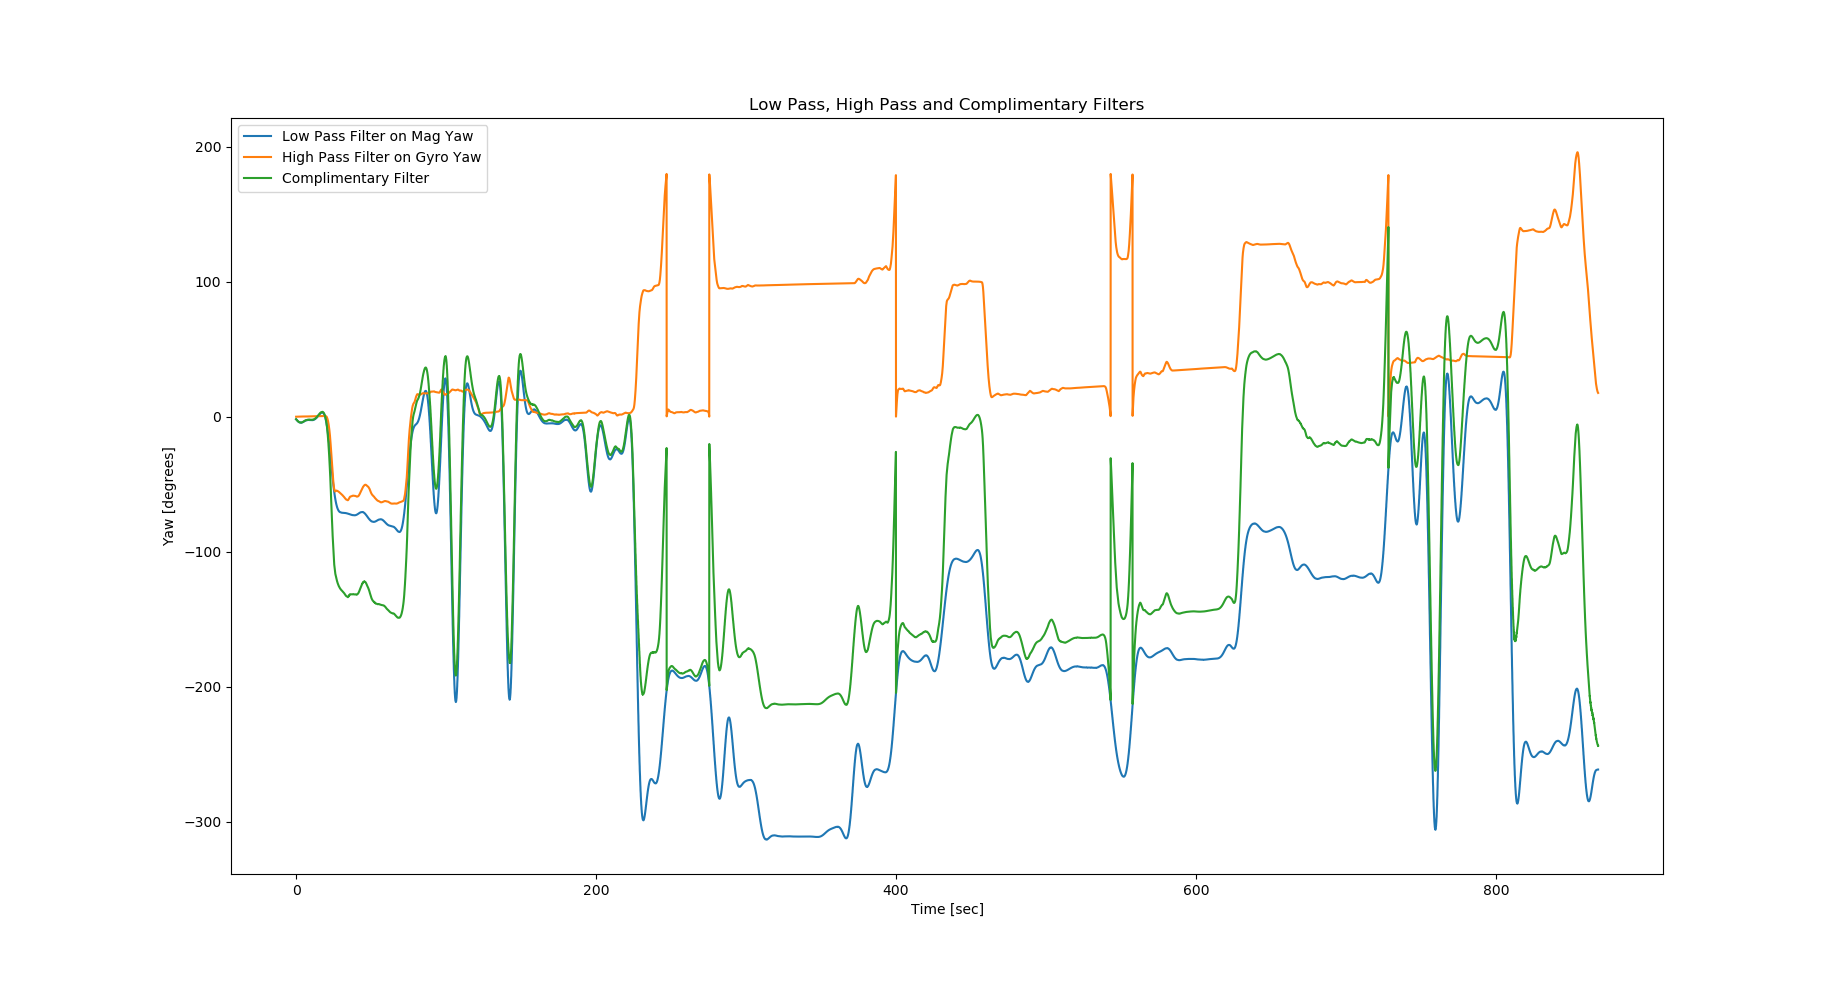
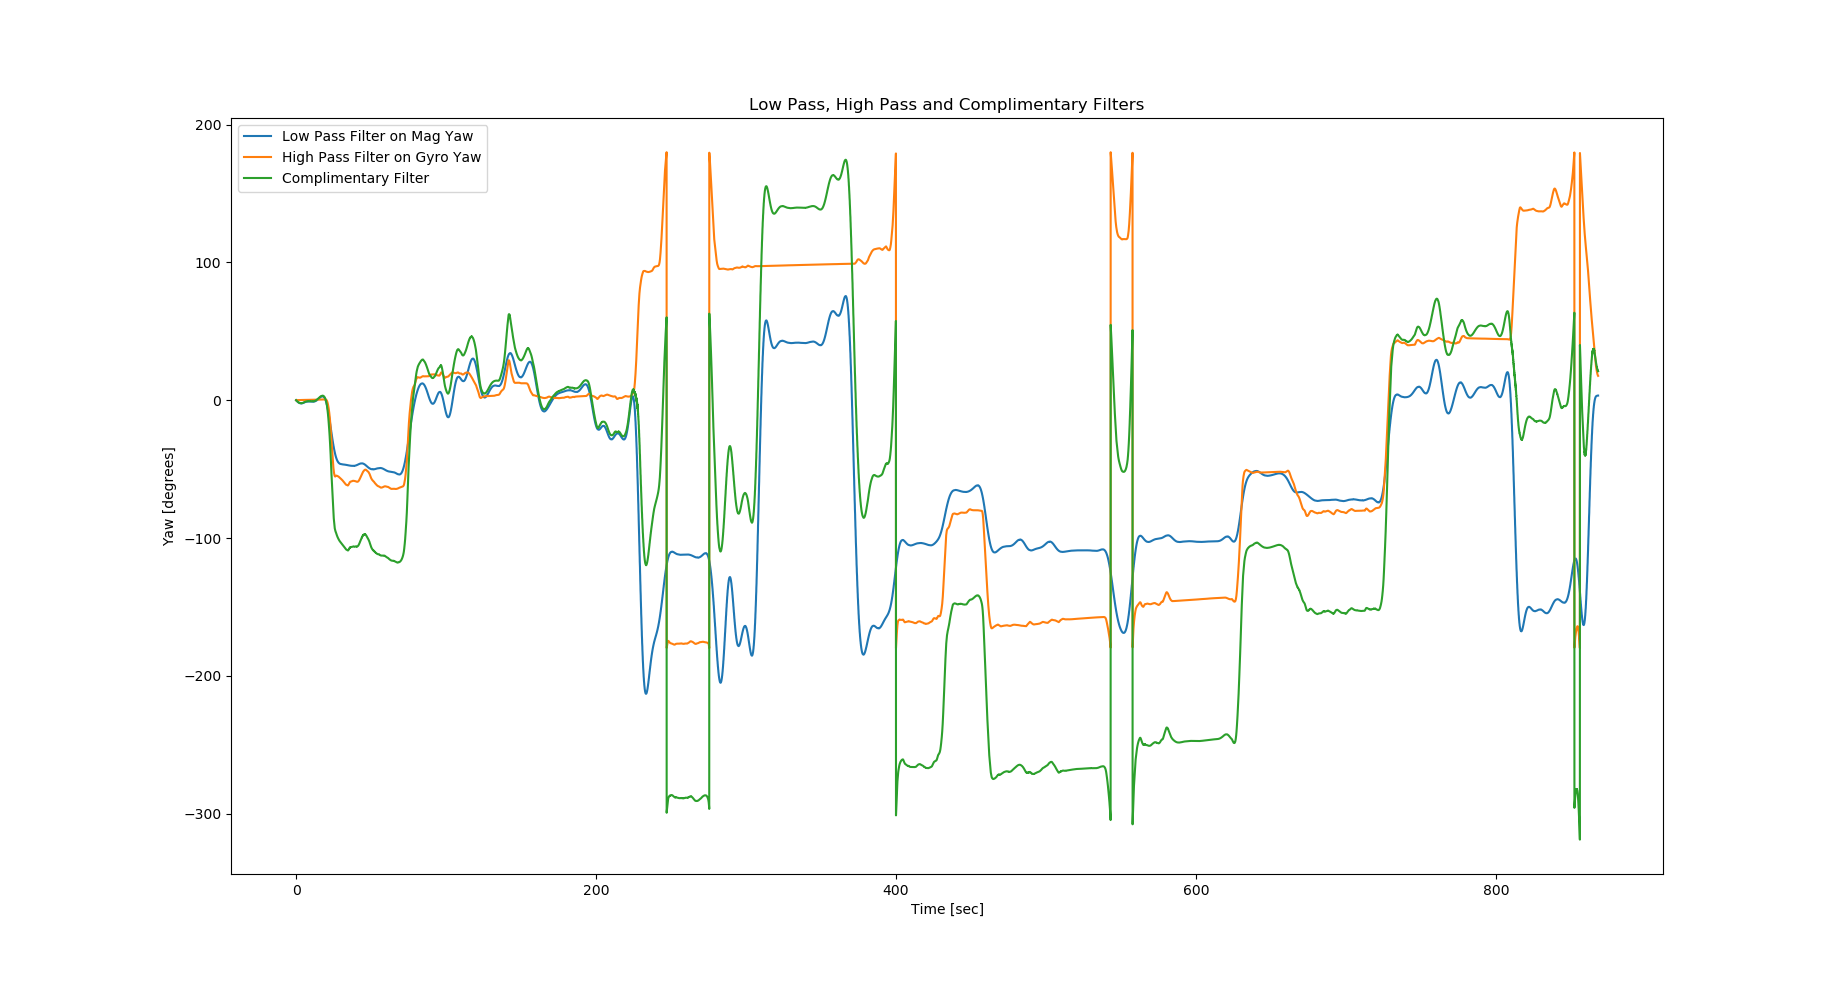
first submission

diff --git a/LAB4/Analysis/driving circle analysis.py b/LAB4/Analysis/driving circle analysis.py
@@ -6,6 +6,9 @@ import numpy as np
 from scipy.optimize import least_squares
 import scipy.integrate as integrate
 from scipy.signal import butter, filtfilt
+from scipy.spatial.transform import Rotation as R
+from scipy.ndimage import rotate
+
 import math
 
 # data_drivingB = bagreader('data_driving.bag')
@@ -77,24 +80,27 @@ x = circles_calibrated_hard['mag_field.magnetic_field.x'].values
 y = circles_calibrated_hard['mag_field.magnetic_field.y'].values
 circles_calibrated_hard['r'] = np.sqrt(circles_calibrated_hard['mag_field.magnetic_field.x']**2
                                 +circles_calibrated_hard['mag_field.magnetic_field.y']**2)
+
+radii = circles_calibrated_hard['r'].values
+
+theTaa = np.arcsin(max(y)/max(radii))
+Rotation = np.array([[np.cos(theTaa), np.sin(theTaa)], 
+              [-np.sin(theTaa), np.cos(theTaa)]])
+xymatrix = np.column_stack((x,y))
+
+v1 = np.dot(Rotation, xymatrix.T)
+
 avg_delta_x = (max(x) - min(x)) / 2
 avg_delta_y = (max(y) - min(y)) / 2
 avg_delta = (avg_delta_x + avg_delta_y) / 2
 scale_x = avg_delta / avg_delta_x
 scale_y = avg_delta / avg_delta_y
 
-corrected_x = x * scale_x
-corrected_y = y * scale_y
+corrected_x = v1[0] * scale_x
+corrected_y = v1[1] * scale_y
 
 print(avg_delta_x)
 print(avg_delta_y)
-
-#This function describes my mapping from measured data back to a circle
-def distortion_model(X_meas, dist_params):
-    x = dist_params[0] * (X_meas[0] - dist_params[4]) + dist_params[1]*(X_meas[1] - dist_params[5])
-    y = dist_params[2] * (X_meas[0] - dist_params[4]) + dist_params[3]*(X_meas[1] - dist_params[5])
-    X = np.array([x,y])
-    return X
 
 #Completely made up data set for magnetometer readings
 field_strength = .206
@@ -160,31 +166,29 @@ driving_mag_x_uncalibrated = drivingDF['mag_field.magnetic_field.x'].values
 driving_mag_y_uncalibrated = drivingDF['mag_field.magnetic_field.y'].values
 gyro_z = drivingDF['imu.angular_velocity.z'].values
 
+uncalibrated_magnetometer_yaw = np.degrees(np.arctan2(-driving_mag_y_uncalibrated,driving_mag_x_uncalibrated))
+
 driving_yaw = []
-uncalibrated_magnetometer_yaw = np.degrees(np.arctan2(driving_mag_x_uncalibrated,driving_mag_y_uncalibrated))
 
 for data in driving_raw_data:
     split = data.split(",")
     driving_yaw.append(float(split[1]))
 
-driving_x_calibrated = (driving_mag_x_uncalibrated - x_offset) * scale_x
-driving_y_calibrated = (driving_mag_y_uncalibrated - y_offset) * scale_y
+driving_matrix = np.column_stack(((driving_mag_x_uncalibrated - x_offset/2), (driving_mag_y_uncalibrated - y_offset/2)))
+driving_rotated = np.dot(Rotation, driving_matrix.T)
+
+driving_x_calibrated = driving_rotated[0] * scale_x
+driving_y_calibrated = driving_rotated[1] * scale_y
+
 
 integrated_yaw = np.degrees(integrate.cumulative_trapezoid(gyro_z, time, initial = 0))
 corrected_yaw = np.mod(integrated_yaw + 180, 360) - 180
-
-calibrated_magnetometer_yaw = np.degrees(np.arctan2(driving_x_calibrated,driving_y_calibrated))
-cal_magnetometer_yaw = calibrated_magnetometer_yaw - calibrated_magnetometer_yaw[0]
-cal_magnetometer_yaw = np.mod(calibrated_magnetometer_yaw + 180, 360) - 180
-
+calibrated_magnetometer_yaw = np.degrees(np.arctan2(-driving_y_calibrated,driving_x_calibrated))
 calibrated_magnetometer_yaw = calibrated_magnetometer_yaw - calibrated_magnetometer_yaw[0]
-uncal_magnetometer_yaw = uncalibrated_magnetometer_yaw - uncalibrated_magnetometer_yaw[0]
-uncal_magnetometer_yaw = np.mod(uncalibrated_magnetometer_yaw + 180, 360) - 180
-
 
 # fid, ax3 = plt.subplots()
-# ax3.plot(time, cal_magnetometer_yaw)
-# ax3.plot(time, uncal_magnetometer_yaw)
+# ax3.plot(time, calibrated_magnetometer_yaw)
+# ax3.plot(time, uncalibrated_magnetometer_yaw)
 # ax3.plot(time, corrected_yaw)
 # ax3.legend(['Calibrated Mag Yaw Estimate','Uncalibrated Mag Yaw Estimate', 'Gyro Integrated Yaw Estimate'])
 # ax3.set_xlabel('Time [sec]')
@@ -211,27 +215,29 @@ hpf = filtfilt(c, k, corrected_yaw)
 hpf = hpf - hpf[0]
 
 # Apply the filter to the noisy signal
-lpf_mag = filtfilt(b, a, cal_magnetometer_yaw)
+lpf_mag = filtfilt(b, a, calibrated_magnetometer_yaw)
+lpf_mag = lpf_mag - lpf_mag[0]
 comp_filter = hpf + lpf_mag
 
-ax9 = plt.subplot()
-ax9.plot(time, lpf_mag)
-ax9.plot(time, hpf)
-ax9.plot(time, comp_filter)
-ax9.legend(['Low Pass Filter on Mag Yaw', 'High Pass Filter on Gyro Yaw', 'Complimentary Filter'])
-ax9.set_title('Low Pass, High Pass and Complimentary Filters')
-ax9.set_xlabel('Time [sec]')
-ax9.set_ylabel('Yaw [degrees]')
+# ax9 = plt.subplot()
+# ax9.plot(time, lpf_mag)
+# ax9.plot(time, hpf)
+# ax9.plot(time, comp_filter)
+# ax9.legend(['Low Pass Filter on Mag Yaw', 'High Pass Filter on Gyro Yaw', 'Complimentary Filter'])
+# ax9.set_title('Low Pass, High Pass and Complimentary Filters')
+# ax9.set_xlabel('Time [sec]')
+# ax9.set_ylabel('Yaw [degrees]')
+driving_yaw = np.array(driving_yaw) + 32
 
-# ax10 = plt.subplot()
-# ax10.plot(time, comp_filter)
-# ax10.plot(time, uncalibrated_magnetometer_yaw)
-# ax10.plot(time, corrected_yaw)
-# ax10.plot(time, driving_yaw)
-# ax10.legend(['Complimentary Filter', 'Magnetometer Yaw', 'Integrated Gyro Yaw', 'IMU Yaw'])
-# ax10.set_title('Magnetometer, Integrated Gyro, Complementary filter and IMU Yaw Angles')
-# ax10.set_xlabel('Time [sec]')
-# ax10.set_ylabel('Yaw [degrees]')
+ax10 = plt.subplot()
+ax10.plot(time, comp_filter)
+ax10.plot(time, calibrated_magnetometer_yaw)
+ax10.plot(time, corrected_yaw)
+ax10.plot(time, driving_yaw)
+ax10.legend(['Complimentary Filter', 'Magnetometer Yaw', 'Integrated Gyro Yaw', 'IMU Yaw'])
+ax10.set_title('Magnetometer, Integrated Gyro, Complementary filter and IMU Yaw Angles')
+ax10.set_xlabel('Time [sec]')
+ax10.set_ylabel('Yaw [degrees]')
 
 #------------------------------------------------------------------------------------------------------
 #------------------------------------------------------------------------------------------------------
@@ -244,13 +250,32 @@ scale(gpsDF)
 
 forward_acc = drivingDF['imu.linear_acceleration.x'].values
 acc_correction = np.median(forward_acc)
-print(acc_correction)
 corrected_acc = forward_acc - acc_correction
+
+# Define the filter parameters
+order = 2
+cutoff = .1  # Hz
+fs = 1 / np.mean(np.diff(time))
+
+# Create the filter coefficients
+nyquist = 0.5 * fs
+normal_cutoff = cutoff / nyquist
+b, a = butter(order, normal_cutoff, btype='low', analog=False)
+
+# Apply the filter to the data
+filtered_data = filtfilt(b, a, forward_acc)
+filtered_data = filtered_data - np.mean(filtered_data)
+# Apply the moving average filter
+
+filtered_vel = integrate.cumulative_trapezoid(filtered_data, time, initial = 0)
 
 forward_vel = integrate.cumulative_trapezoid(forward_acc, time, initial = 0)
 corrected_forward_vel = integrate.cumulative_trapezoid(corrected_acc, time, initial = 0)
 gps_easting = gpsDF['UTM_easting'].values
+gps_easting = gps_easting - gps_easting[0]
 gps_northing = gpsDF['UTM_northing'].values
+gps_northing = gps_northing - gps_northing[0]
+
 gps_time = gpsDF['Time'].values
 distance = np.sqrt(gps_easting**2 + gps_northing**2)
 
@@ -271,16 +296,72 @@ trend_data = trend_line(time)
 # Detrend the data by subtracting the trend from the original data
 detrended_data = forward_vel - trend_data
 
+# Apply a moving average filter
+window_size = 100
+window = np.ones(window_size) / window_size
+filtered_acceleration = np.convolve(corrected_acc, window, mode='same')
+filtered_forward_vel = integrate.cumulative_trapezoid(filtered_acceleration, time, initial = 0)
+
+# fig, ax = plt.subplots()
+# ax.plot(time, filtered_data)
+# ax.plot(time, filtered_vel)
+
 # fig, ax4 = plt.subplots()
 # fig, ax5 = plt.subplots()
-# ax4.plot(time, forward_vel, c = 'green')
+# ax4.plot(time, filtered_acceleration)
 # ax4.set_title('Unadjusted Accelerometer Velociy Estimate')
-# ax5.plot(time, corrected_forward_vel)
-# ax5.set_title('Adjusted Accelerometer Velociy Estimate')
+# ax4.set_xlabel('Time [sec]')
+# ax4.set_ylabel('Velocity [meters/sec]')
 
+zer_adjusted_forward_vel = np.copy(filtered_forward_vel)
+test_split1 = np.copy(filtered_forward_vel)
+# Find the zero crossings of the velocity data
+zero_crossings = np.where(np.diff(np.sign(zer_adjusted_forward_vel)))[0]
+
+# Split the data in half
+half = len(test_split1) // 2
+data1, data2 = np.split(test_split1, [half])
+print(min(data1))
+print(np.where(data1 == min(data1)))
+
+detrend_start = zero_crossings[6]
+
+start1 = zero_crossings[1]
+end1 = 14779
+test_split1[start1:end1+1] = 0
+test_split1[end1+2:] += 14.2
+
+ZAF = np.copy(test_split1)
+# Correct for negative velocity values
+for i in range(1, len(ZAF)):
+    if ZAF[i] < 0:
+        ZAF[i] = max(ZAF[i], ZAF[i-1])
+
+print(len(ZAF))
+print((len(ZAF)*(3/4)))
+ZAF[26045:] -= 5.5
+
+for i in range(1, len(ZAF)):
+    if ZAF[i] < 0:
+        ZAF[i] = max(ZAF[i], ZAF[i-1])
+
+ZAF = ZAF *.75
+ZAF_ = ZAF[:start1]*.85
+ZAF[:start1] = ZAF_
+ZAF = ZAF*1.2
+
+gps_time = gps_time[1:]
 # fig, ax6 = plt.subplots()
 # ax6.plot(gps_time, gps_velocity)
-# ax6.set_title('GPS Velociy Estimate')
+# ax6.set_xlabel('Time [sec]')
+# ax6.set_ylabel('Velocity [meters/sec]')
+# # ax6.plot(time, filtered_forward_vel)
+# ax6.plot(time, ZAF)
+# ax6.plot(time, corrected_forward_vel)
+# # ax6.plot(time, zer_adjusted_forward_vel)
+# ax6.set_title('Velocity Estimate')
+# ax6.legend(['GPS Velocity Estimate','Adjusted Inertial Velocity Estimate',
+#             'Unadjusted Velocity Estimate'])
 
 #------------------------------------------------------------------------------------------------------
 #------------------------------------------------------------------------------------------------------
@@ -289,11 +370,67 @@ detrended_data = forward_vel - trend_data
 #------------------------------------------------------------------------------------------------------
 #------------------------------------------------------------------------------------------------------
 #------------------------------------------------------------------------------------------------------
-distance_from_integration = integrate.cumulative_trapezoid(detrended_data, time, initial = 0)
+y_acc = drivingDF['imu.linear_acceleration.y'].values
+y_acc_correction = np.median(y_acc)
+corrected_y_acc = forward_acc - acc_correction
+calculated_Ydot = gyro_z*corrected_forward_vel
+
+# Define the filter parameters
+order = 2
+cutoff = 1  # Hz
+fs = 1 / np.mean(np.diff(time))
+
+# Create the filter coefficients
+nyquist = 0.5 * fs
+normal_cutoff = cutoff / nyquist
+b, a = butter(order, normal_cutoff, btype='low', analog=False)
+
+# Apply the filter to the data
+filtered_y = filtfilt(b, a, y_acc)
+filtered_y = filtered_y - np.mean(filtered_y)
+# Apply the moving average filter
+
+filtered_y_vel = integrate.cumulative_trapezoid(filtered_y, time, initial = 0)
+distance_y_from_integration = integrate.cumulative_trapezoid(filtered_y_vel, time, initial = 0)
+distance_x_from_integration = integrate.cumulative_trapezoid(filtered_vel, time, initial = 0)
 distance = distance - distance[0]
-# fig, ax6 = plt.subplots()
-# ax6.plot(gps_time, distance)
-# ax6.plot(time, distance_from_integration)
-# ax6.set_title('Distance Estimate')
+fig, ax6 = plt.subplots()
+ax6.plot(gps_easting, gps_northing)
+ax6.set_title('Dead Reconing')
+ax6.axis('equal')
+
+print(np.where(time > 300))
+calculated_Ydot[12000:] *= -1
+#-----------------------------------------------------------------------------------------------
+#Detrending forward velocity
+#-----------------------------------------------------------------------------------------------
+window_size = 1
+window = np.ones(window_size) / float(window_size)
+smoothed_v = np.convolve(forward_vel, window, 'same')
+
+Ve = smoothed_v*np.cos(np.deg2rad(driving_yaw))
+Vn = smoothed_v*np.sin(np.deg2rad(driving_yaw))
+
+Xe = integrate.cumulative_trapezoid(Ve, time, initial = 0)/42
+Xn = integrate.cumulative_trapezoid(Vn, time, initial = 0)/42
+
+rate = np.mean(np.diff(Xe))
+ratey = np.mean(np.diff(Xn))
+
+Xe += Xe*rate*-1
+Xn += Xn*ratey*-1
+
+yay = np.column_stack((Xe,Xn))
+arr_diag = np.fliplr(np.rot90(yay))
+
+
+# fig, ax7 = plt.subplots()
+# ax6.plot(gps_easting, gps_northing)
+# ax7.plot(time, calculated_Ydot, c = 'blue')
+ax6.plot(arr_diag[0], arr_diag[1], c = 'black')
+ax6.legend(['GPS Track', 'IMU Track'])
+# ax7.set_title('Y Acceleration Calculated and Observed')
+ax6.set_xlabel('Xe [meters]')
+ax6.set_ylabel('Xn [meters]')
 
 plt.show()

diff --git a/LAB4/Analysis/moving average example.py b/LAB4/Analysis/moving average example.py
@@ -1,0 +1,33 @@
+import numpy as np
+import matplotlib.pyplot as plt
+
+# Define the vertices of the trapezoid
+trapezoid = np.array([(1, 1), (3, 3), (5, 3), (7, 1)])
+
+# Compute the width and height of the rectangle
+width = np.max(trapezoid[:, 0]) - np.min(trapezoid[:, 0])
+height = np.max(trapezoid[:, 1]) - np.min(trapezoid[:, 1])
+
+# Compute the rotation angle of the rectangle
+dx = trapezoid[1, 0] - trapezoid[0, 0]
+dy = trapezoid[1, 1] - trapezoid[0, 1]
+angle = np.arctan2(dy, dx)
+
+# Compute the scaling factors for the x-axis and y-axis
+scale_x = width / np.abs(dx)
+scale_y = height / np.abs(dy)
+
+# Define the affine transformation matrix
+M = np.array([[np.cos(angle) * scale_x, -np.sin(angle) * scale_y, -np.min(trapezoid[:, 0]) * np.cos(angle) * scale_x + np.min(trapezoid[:, 1]) * np.sin(angle) * scale_y],
+              [np.sin(angle) * scale_x, np.cos(angle) * scale_y, -np.min(trapezoid[:, 0]) * np.sin(angle) * scale_x - np.min(trapezoid[:, 1]) * np.cos(angle) * scale_y]])
+
+# Apply the affine transformation to the trapezoid
+trapezoid_transformed = np.hstack([trapezoid, np.ones((len(trapezoid), 1))]).dot(M.T)[:, :2]
+
+# Plot the original and transformed trapezoids
+fig, ax = plt.subplots(1, 2, figsize=(10, 5))
+ax[0].plot(trapezoid[:, 0], trapezoid[:, 1], 'r--')
+ax[0].set_title('Original Trapezoid')
+ax[1].plot(trapezoid_transformed[:, 0], trapezoid_transformed[:, 1], 'b--')
+ax[1].set_title('Transformed Rectangle')
+plt.show()
